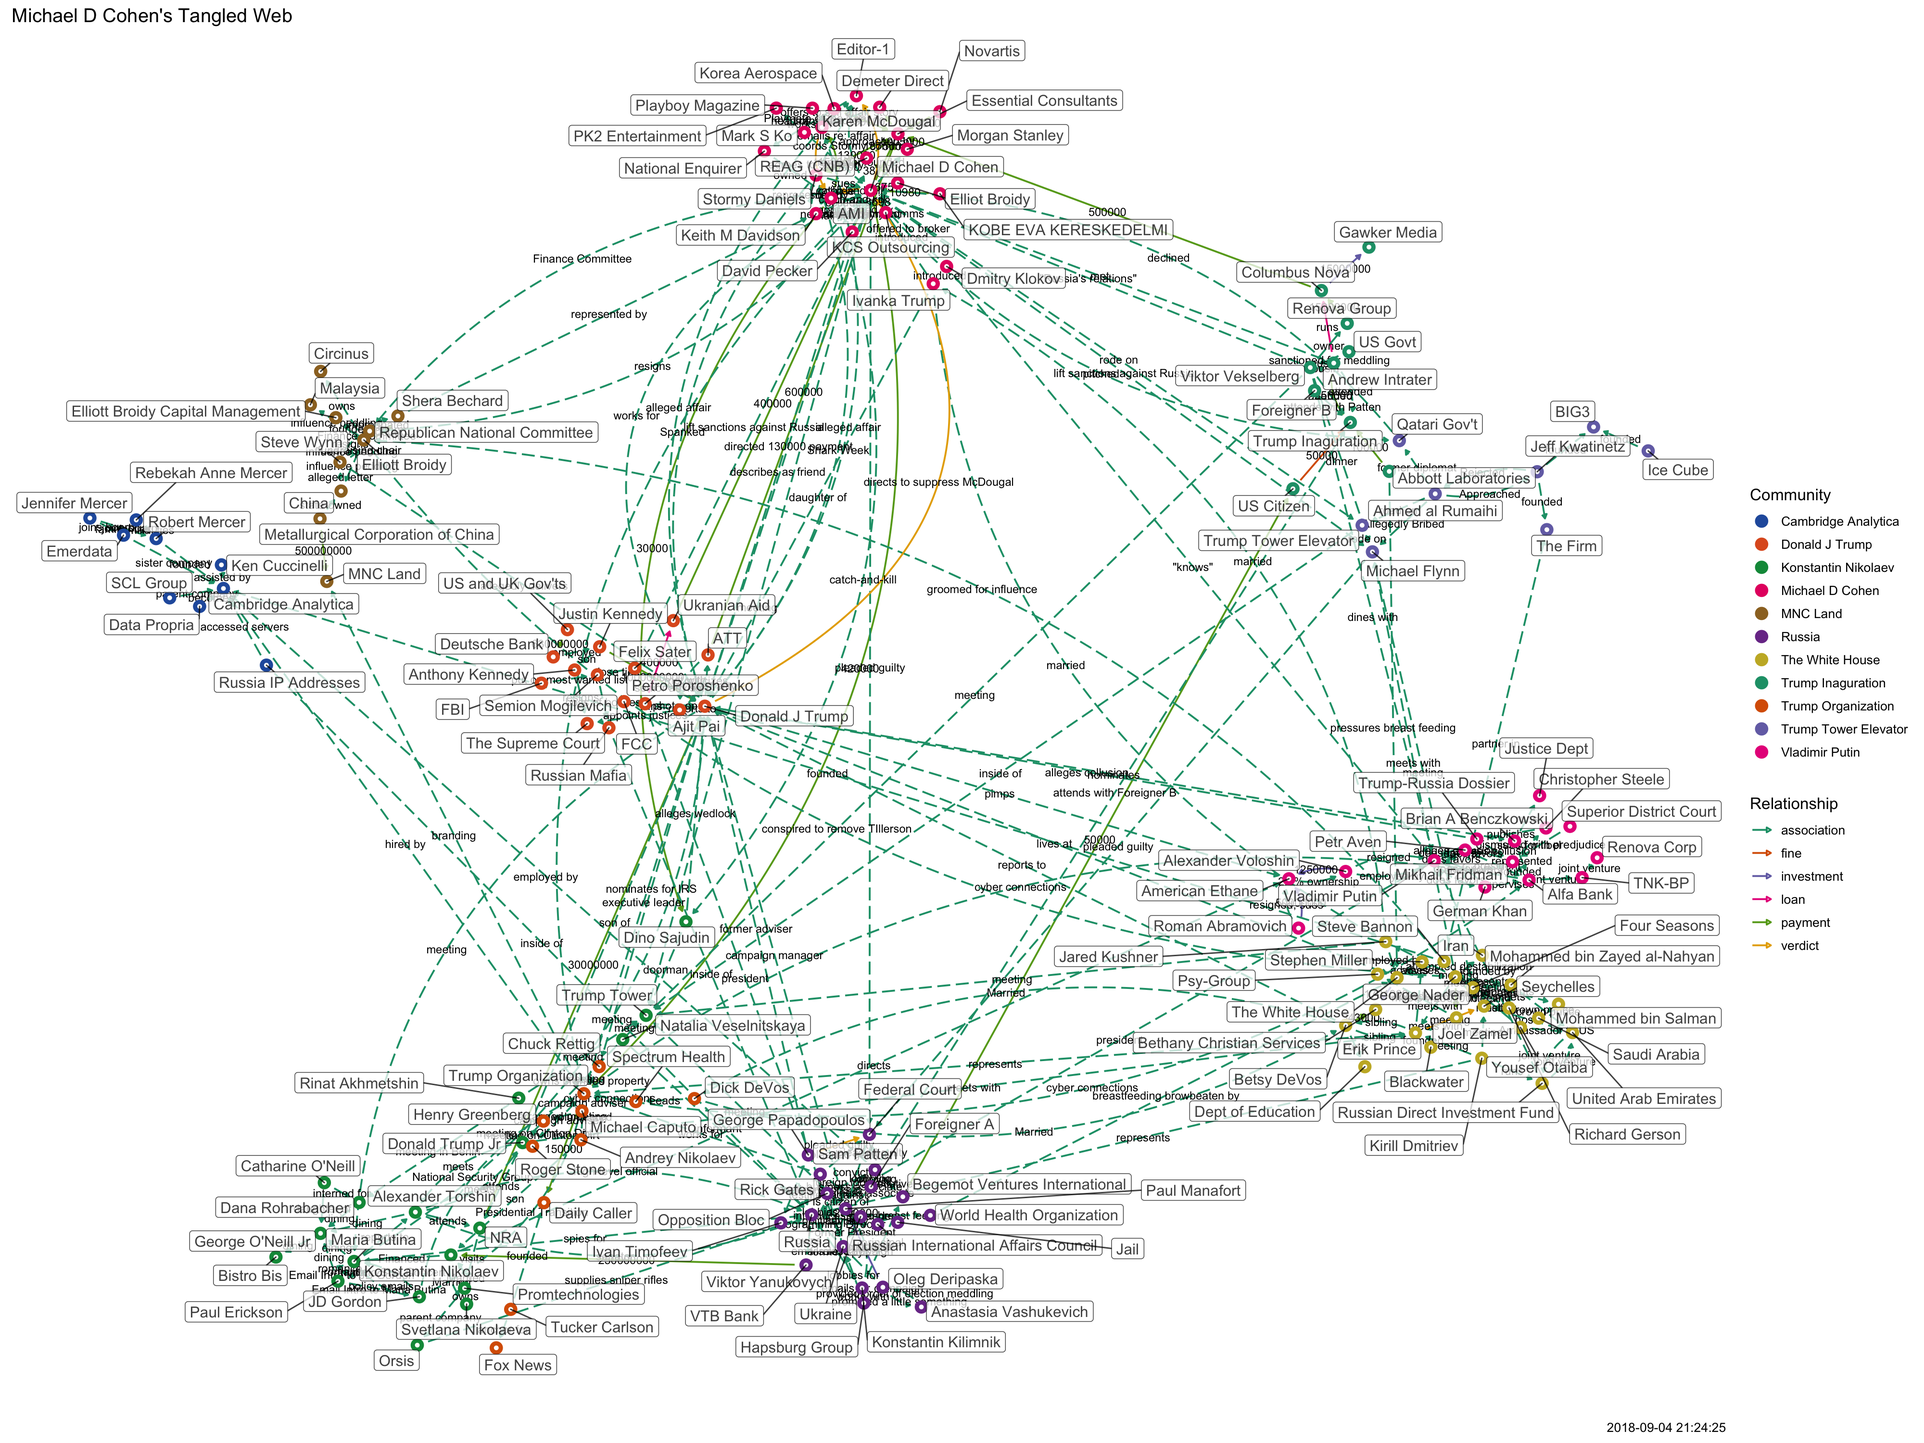
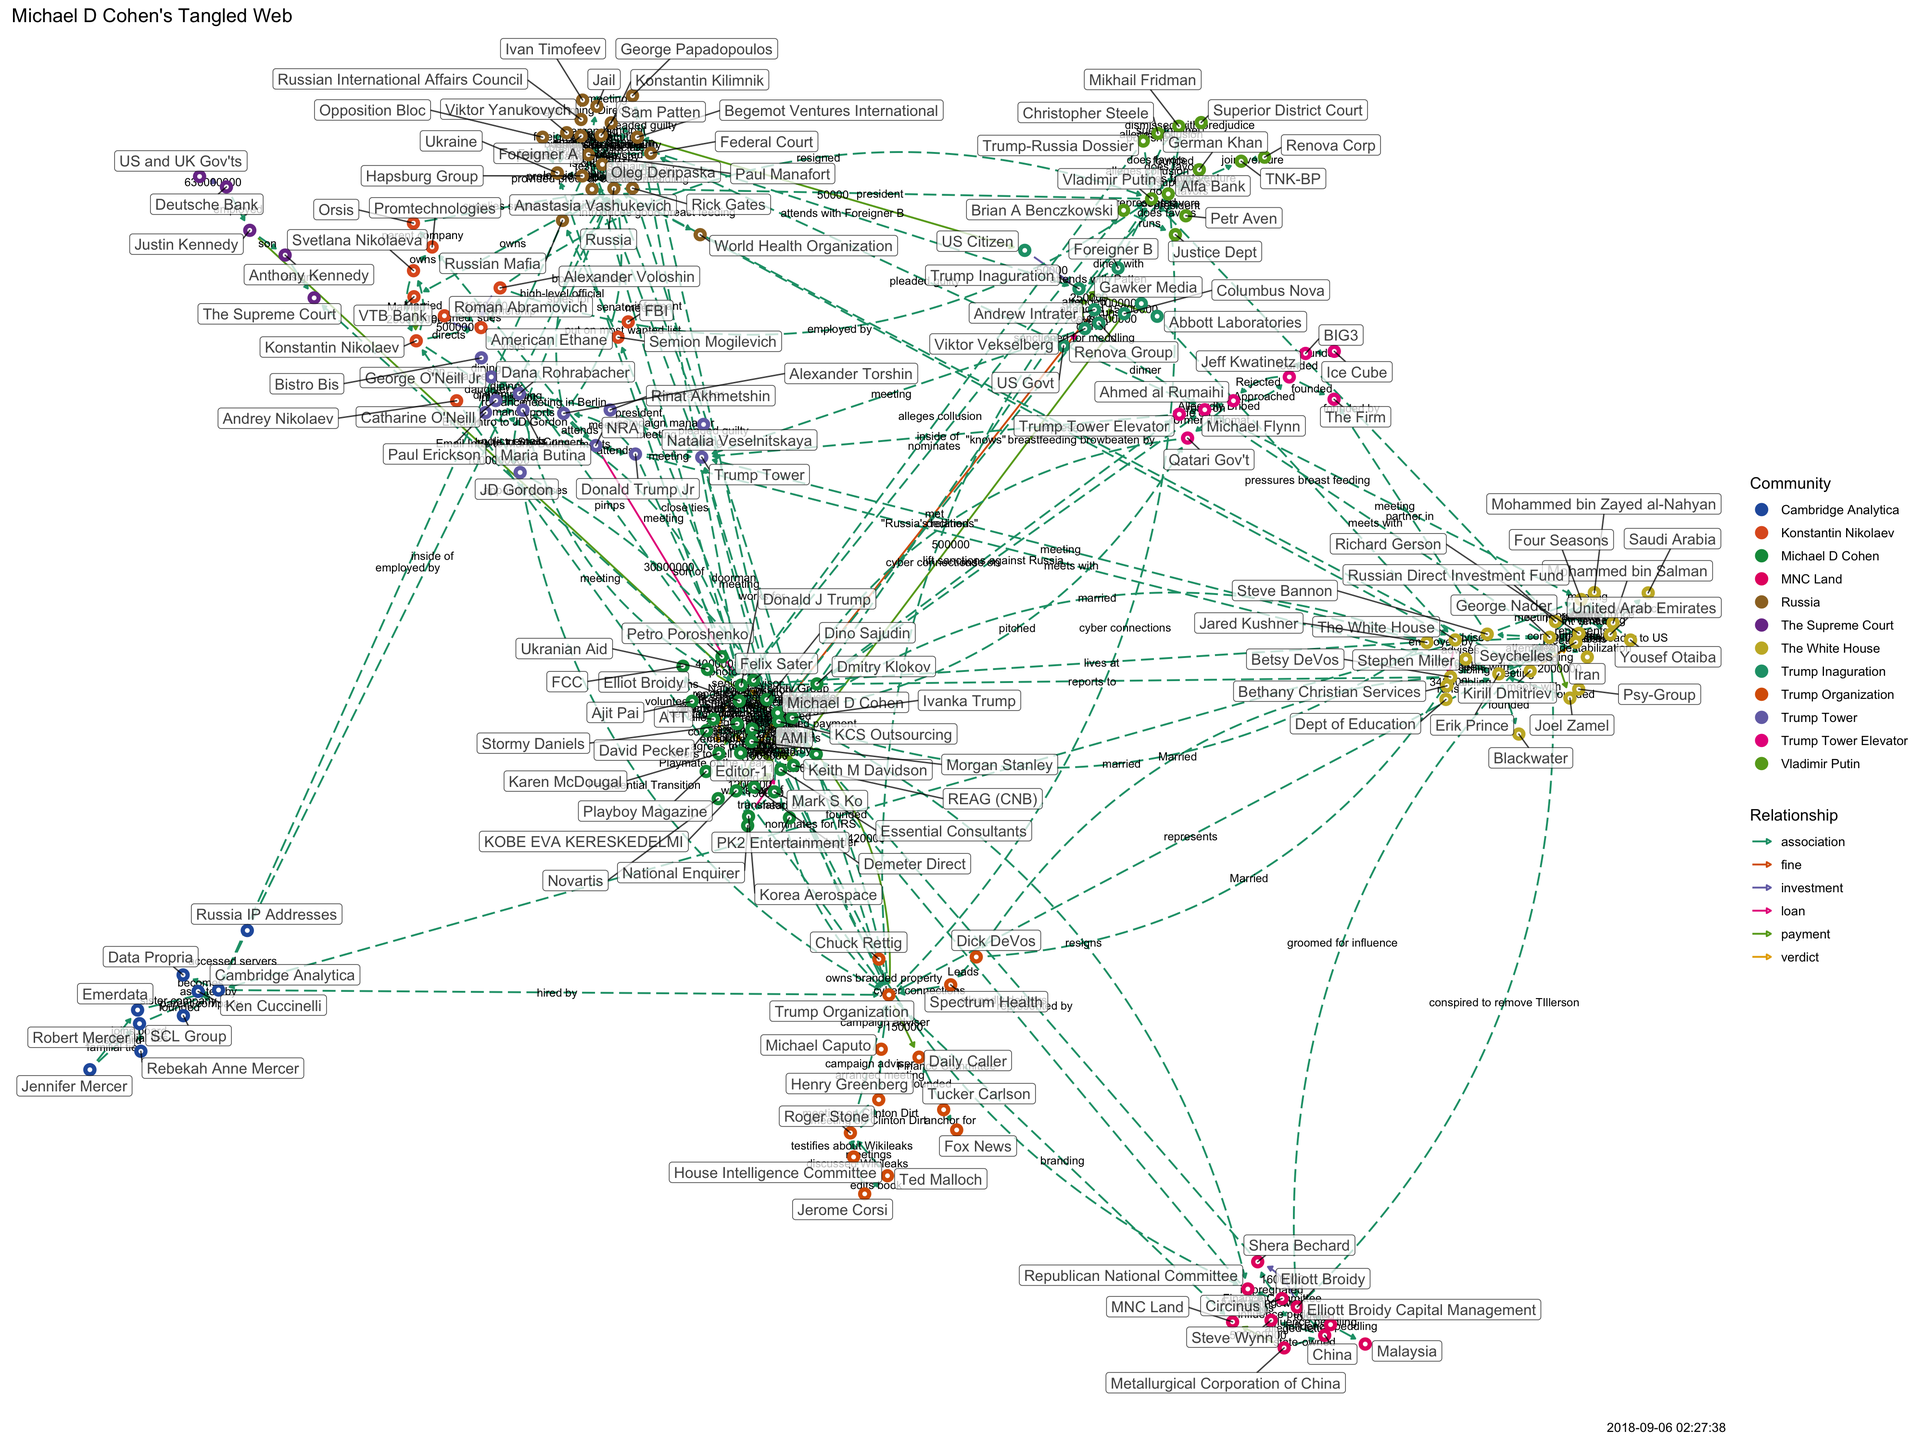
updated

Changed region(s): [[0.0312, 0.031, 1.0, 0.961], [0.0312, 0.62, 0.1875, 0.775], [0.8125, 0.279, 0.8438, 0.31]]

diff --git a/docs/tangled-d3.html b/docs/tangled-d3.html
@@ -1143,11 +1143,11 @@ return function(){for(var n=0,e=0;e<t;++e)n+=Math.random();return n}},um=functio
 </head>
 <body style="background-color: white;">
 <div id="htmlwidget_container">
-<div id="htmlwidget-c9d29ac1d0d970ba80f4" class="forceNetwork html-widget" style="width:960px;height:500px;">
+<div id="htmlwidget-beed44c90c4124314551" class="forceNetwork html-widget" style="width:960px;height:500px;">
 
 </div>
 </div>
-<script type="application/json" data-for="htmlwidget-c9d29ac1d0d970ba80f4">{"x":{"links":{"source":[0,1,2,2,3,4,5,6,7,7,8,9,10,10,10,11,12,13,14,15,16,17,18,19,20,21,22,22,23,24,25,26,26,27,28,29,30,31,17,3,3,32,3,32,32,3,33,17,34,32,9,9,9,17,35,35,34,17,17,36,36,36,36,35,17,37,38,38,39,40,39,39,41,38,38,42,42,42,4,41,9,11,11,11,43,43,44,44,17,45,46,46,11,47,48,49,11,11,50,51,49,52,48,11,11,47,49,6,6,6,26,16,21,21,17,32,32,53,54,54,54,54,11,51,37,41,55,55,44,44,56,56,34,34,17,57,58,59,58,60,61,60,58,60,60,47,43,62,63,63,30,20,60,58,35,64,17,65,12,66,35,0,67,68,35,1,1,69,24,70,35,70,71,72,73,61,61,61,74,26,75,76,76,77,35,77,77,78,77,79,78,47,47,78,78,78,77,80,79,81,81,62,82,9,83,57,84,84,84,79,79,84,85,85,86,86,87,88,88,19,85,89,68,90,91,92,90,92,9,9,9,93,93,93,94,95,20,32,35,96,97,97,97,97,37,17,35,98,99,100,17,17,101,98,2,17,35,98,35,98,101,2,102,102,34,99,101,103,103,104,105,106,103,17,71,72,73,107,74,71,108,109,109,109,110,111,60,111,112,111,113,113,111,111,58,111,114,111,41,115,75,116,117,118,119,118,119,120,120,120,121,122,123,124,124,6,125,126,126,127,126,49,126,49,128,127,129,11],"target":[130,69,102,98,130,10,29,131,10,132,22,83,133,134,34,48,35,17,17,10,135,8,10,35,60,27,10,34,7,69,131,136,17,17,66,130,60,85,10,7,17,23,32,3,130,130,32,35,57,61,137,138,139,134,25,34,35,26,137,133,140,17,15,26,53,53,53,39,38,141,142,141,142,45,37,4,35,143,42,25,11,9,41,43,25,44,43,35,45,17,136,144,49,49,49,145,51,50,146,129,52,25,147,37,148,35,6,49,149,35,135,94,35,150,151,151,17,151,128,51,11,152,152,152,152,152,152,129,17,56,17,61,57,17,57,17,59,150,60,68,68,35,68,153,151,151,151,151,151,68,150,68,58,20,64,26,137,154,65,12,154,25,25,67,69,61,61,1,69,74,70,155,61,61,61,71,72,73,26,74,26,75,68,35,77,68,78,68,79,77,47,78,19,19,68,82,82,82,82,82,80,80,156,83,57,17,77,26,26,77,84,77,77,86,85,89,68,85,26,89,69,87,31,91,92,91,26,26,94,157,93,137,35,137,93,20,95,37,4,60,60,26,96,60,96,96,17,99,100,2,99,101,2,2,17,2,17,35,98,158,35,102,35,151,99,17,17,35,105,105,106,68,17,37,74,74,74,159,159,108,109,35,61,71,71,60,111,112,150,113,111,68,75,96,5,5,130,130,75,75,160,75,75,117,117,115,115,35,96,121,122,68,26,123,6,124,75,49,127,61,68,26,128,128,129,129,127,128],"colour":["red","blue","red","red","red","red","red","red","red","blue","red","red","red","red","red","red","blue","red","red","red","blue","red","red","blue","blue","red","red","red","blue","blue","red","red","red","red","blue","red","red","blue","blue","blue","blue","blue","blue","blue","blue","blue","blue","blue","blue","blue","blue","blue","blue","blue","blue","blue","blue","blue","blue","blue","blue","blue","blue","blue","blue","blue","blue","blue","blue","blue","blue","blue","blue","blue","blue","blue","blue","blue","blue","blue","blue","blue","blue","blue","blue","blue","blue","blue","blue","blue","blue","blue","blue","blue","blue","blue","blue","blue","blue","blue","blue","blue","blue","blue","blue","blue","blue","blue","blue","blue","blue","blue","blue","blue","blue","blue","blue","blue","blue","blue","blue","blue","blue","blue","blue","blue","blue","blue","blue","blue","blue","blue","blue","blue","blue","blue","blue","blue","blue","blue","blue","blue","blue","blue","blue","blue","blue","blue","blue","blue","blue","blue","blue","blue","blue","blue","blue","blue","blue","blue","blue","blue","blue","blue","blue","blue","blue","blue","blue","blue","blue","blue","blue","blue","blue","blue","blue","blue","blue","blue","blue","blue","blue","blue","blue","blue","blue","blue","blue","blue","blue","blue","blue","blue","blue","blue","blue","blue","blue","blue","blue","blue","blue","blue","blue","blue","blue","blue","blue","blue","blue","blue","blue","blue","blue","blue","blue","blue","blue","blue","blue","blue","blue","blue","blue","blue","blue","blue","blue","blue","blue","blue","blue","blue","blue","blue","blue","blue","blue","blue","blue","blue","blue","blue","blue","blue","blue","blue","blue","blue","blue","blue","blue","blue","blue","blue","blue","blue","blue","blue","blue","blue","blue","blue","blue","blue","blue","blue","blue","blue","blue","blue","blue","blue","blue","blue","blue","blue","blue","blue","blue","blue","blue","blue","blue","blue","blue","blue","blue","blue","blue","blue","blue","blue","blue","blue","blue","blue","blue","blue","blue","blue","blue","blue","blue","blue","blue","blue","blue","blue","blue","blue","blue","blue","blue","blue","blue","blue","blue","blue","blue","blue","blue","blue","blue","blue","blue","blue"]},"nodes":{"name":["Abbott Laboratories","Alexander Voloshin","AMI","Andrew Intrater","ATT","Begemot Ventures International","Betsy DeVos","Columbus Nova","Elliot Broidy","Elliott Broidy","Essential Consultants","George Nader","Justin Kennedy","KCS Outsourcing","KOBE EVA KERESKEDELMI","Korea Aerospace","Metallurgical Corporation of China","Michael D Cohen","Novartis","NRA","Oleg Deripaska","Petro Poroshenko","REAG (CNB)","Renova Group","Roman Abramovich","The White House","Trump Organization","Ukranian Aid","US and UK Gov'ts","US Citizen","Viktor Yanukovych","VTB Bank","Viktor Vekselberg","US Govt","Stormy Daniels","Donald J Trump","Mark S Ko","Michael Flynn","Ahmed al Rumaihi","Jeff Kwatinetz","Ice Cube","Steve Bannon","Ajit Pai","Jared Kushner","Ivanka Trump","Qatari Gov't","Tucker Carlson","Donald Trump Jr","Joel Zamel","Erik Prince","Mohammed bin Salman","Mohammed bin Zayed al-Nahyan","Stephen Miller","Trump Tower Elevator","Richard Gerson","Yousef Otaiba","Dmitry Klokov","Keith M Davidson","Konstantin Kilimnik","Hapsburg Group","Paul Manafort","Vladimir Putin","Rinat Akhmetshin","Natalia Veselnitskaya","Chuck Rettig","Anthony Kennedy","Deutsche Bank","World Health Organization","Russia","American Ethane","Brian A Benczkowski","Mikhail Fridman","German Khan","Petr Aven","Alfa Bank","Cambridge Analytica","Russia IP Addresses","Maria Butina","Alexander Torshin","Paul Erickson","Dana Rohrabacher","Catharine O'Neill","George O'Neill Jr","Shera Bechard","JD Gordon","Konstantin Nikolaev","Svetlana Nikolaeva","Orsis","Andrey Nikolaev","Promtechnologies","Michael Caputo","Henry Greenberg","Roger Stone","Steve Wynn","China","Anastasia Vashukevich","Federal Court","Rick Gates","Karen McDougal","Editor-1","National Enquirer","David Pecker","Dino Sajudin","Felix Sater","FBI","Semion Mogilevich","Russian Mafia","Renova Corp","Christopher Steele","Trump-Russia Dossier","Superior District Court","Sam Patten","Opposition Bloc","Foreigner A","Foreigner B","Robert Mercer","SCL Group","Emerdata","Jennifer Mercer","Rebekah Anne Mercer","George Papadopoulos","Ivan Timofeev","Russian International Affairs Council","Spectrum Health","Dick DeVos","Ken Cuccinelli","Kirill Dmitriev","Russian Direct Investment Fund","Seychelles","United Arab Emirates","Trump Inaguration","Bethany Christian Services","Gawker Media","Demeter Direct","Morgan Stanley","MNC Land","Daily Caller","Republican National Committee","Elliott Broidy Capital Management","Circinus","PK2 Entertainment","BIG3","The Firm","FCC","Fox News","Blackwater","Saudi Arabia","Psy-Group","Iran","Dept of Education","Ukraine","Trump Tower","Four Seasons","Jail","The Supreme Court","Justice Dept","Bistro Bis","Malaysia","Playboy Magazine","TNK-BP","Data Propria"],"group":["9","5","2","9","6","3","1","9","2","8","2","1","6","2","2","2","8","2","2","4","3","6","2","9","5","1","7","6","6","9","3","3","9","9","2","6","2","11","11","11","11","1","6","1","2","11","7","4","1","1","1","1","1","11","1","1","2","2","3","3","3","5","4","4","7","6","6","3","3","5","5","5","5","5","5","10","10","4","4","4","4","4","4","8","4","4","4","4","7","4","7","7","7","8","8","3","3","3","2","2","2","2","4","6","6","6","6","5","5","5","5","3","3","3","9","10","10","10","10","10","3","3","3","7","7","10","1","1","1","1","9","1","9","2","2","8","7","8","8","8","2","11","11","6","7","1","1","1","1","1","3","4","1","3","6","5","4","8","2","5","10"]},"options":{"NodeID":"name","Group":"group","colourScale":"d3.scaleOrdinal(d3.schemeCategory20);","fontSize":20,"fontFamily":"serif","clickTextSize":50,"linkDistance":50,"linkWidth":"function(d) { return Math.sqrt(d.value); }","charge":-100,"opacity":1,"zoom":true,"legend":false,"arrows":false,"nodesize":false,"radiusCalculation":" Math.sqrt(d.nodesize)+6","bounded":false,"opacityNoHover":1,"clickAction":null}},"evals":[],"jsHooks":[]}</script>
-<script type="application/htmlwidget-sizing" data-for="htmlwidget-c9d29ac1d0d970ba80f4">{"viewer":{"width":450,"height":350,"padding":10,"fill":true},"browser":{"width":960,"height":500,"padding":10,"fill":true}}</script>
+<script type="application/json" data-for="htmlwidget-beed44c90c4124314551">{"x":{"links":{"source":[0,1,2,2,3,4,5,6,7,7,8,9,10,10,10,11,12,13,14,15,16,17,18,19,20,21,22,22,23,24,25,26,26,27,28,29,30,31,17,3,3,32,3,32,32,3,33,17,34,32,9,9,9,17,35,35,34,17,17,36,36,36,36,35,17,37,38,38,39,40,39,39,41,38,38,42,42,42,4,41,9,11,11,11,43,43,44,44,17,45,46,46,11,47,48,49,11,11,50,51,49,52,48,11,11,47,49,6,6,6,26,16,21,21,17,32,32,53,54,54,54,54,11,51,37,41,55,55,44,44,56,56,34,34,17,57,58,59,58,60,61,60,58,60,60,47,43,62,63,63,30,20,60,58,35,64,17,65,12,66,35,0,67,68,35,1,1,69,24,70,35,70,71,72,73,61,61,61,74,26,75,76,76,77,35,77,77,78,77,79,78,47,47,78,78,78,77,80,79,81,81,62,82,9,83,57,84,84,84,79,79,84,85,85,86,86,87,88,88,19,85,89,68,90,91,92,90,92,9,9,9,93,93,93,94,95,20,32,35,96,97,97,97,97,37,17,35,98,99,100,17,17,101,98,2,17,35,98,35,98,101,2,102,102,34,99,101,103,103,104,105,106,103,17,71,72,73,107,74,71,108,109,109,109,110,111,60,111,112,111,113,113,111,111,58,111,114,111,41,115,75,116,117,118,119,118,119,120,120,120,121,122,123,124,124,6,125,126,126,127,126,49,126,49,128,127,129,11,130,92,130,131],"target":[132,69,102,98,132,10,29,133,10,134,22,83,135,136,34,48,35,17,17,10,137,8,10,35,60,27,10,34,7,69,133,138,17,17,66,132,60,85,10,7,17,23,32,3,132,132,32,35,57,61,139,140,141,136,25,34,35,26,139,135,142,17,15,26,53,53,53,39,38,143,144,143,144,45,37,4,35,145,42,25,11,9,41,43,25,44,43,35,45,17,138,146,49,49,49,147,51,50,148,129,52,25,149,37,150,35,6,49,151,35,137,94,35,152,153,153,17,153,128,51,11,154,154,154,154,154,154,129,17,56,17,61,57,17,57,17,59,152,60,68,68,35,68,155,153,153,153,153,153,68,152,68,58,20,64,26,139,156,65,12,156,25,25,67,69,61,61,1,69,74,70,157,61,61,61,71,72,73,26,74,26,75,68,35,77,68,78,68,79,77,47,78,19,19,68,82,82,82,82,82,80,80,158,83,57,17,77,26,26,77,84,77,77,86,85,89,68,85,26,89,69,87,31,91,92,91,26,26,94,159,93,139,35,139,93,20,95,37,4,60,60,26,96,60,96,96,17,99,100,2,99,101,2,2,17,2,17,35,98,160,35,102,35,153,99,17,17,35,105,105,106,68,17,37,74,74,74,161,161,108,109,35,61,71,71,60,111,112,152,113,111,68,75,96,5,5,132,132,75,75,162,75,75,117,117,115,115,35,96,121,122,68,26,123,6,124,75,49,127,61,68,26,128,128,129,129,127,128,92,163,131,92],"colour":["red","blue","red","red","red","red","red","red","red","blue","red","red","red","red","red","red","blue","red","red","red","blue","red","red","blue","blue","red","red","red","blue","blue","red","red","red","red","blue","red","red","blue","blue","blue","blue","blue","blue","blue","blue","blue","blue","blue","blue","blue","blue","blue","blue","blue","blue","blue","blue","blue","blue","blue","blue","blue","blue","blue","blue","blue","blue","blue","blue","blue","blue","blue","blue","blue","blue","blue","blue","blue","blue","blue","blue","blue","blue","blue","blue","blue","blue","blue","blue","blue","blue","blue","blue","blue","blue","blue","blue","blue","blue","blue","blue","blue","blue","blue","blue","blue","blue","blue","blue","blue","blue","blue","blue","blue","blue","blue","blue","blue","blue","blue","blue","blue","blue","blue","blue","blue","blue","blue","blue","blue","blue","blue","blue","blue","blue","blue","blue","blue","blue","blue","blue","blue","blue","blue","blue","blue","blue","blue","blue","blue","blue","blue","blue","blue","blue","blue","blue","blue","blue","blue","blue","blue","blue","blue","blue","blue","blue","blue","blue","blue","blue","blue","blue","blue","blue","blue","blue","blue","blue","blue","blue","blue","blue","blue","blue","blue","blue","blue","blue","blue","blue","blue","blue","blue","blue","blue","blue","blue","blue","blue","blue","blue","blue","blue","blue","blue","blue","blue","blue","blue","blue","blue","blue","blue","blue","blue","blue","blue","blue","blue","blue","blue","blue","blue","blue","blue","blue","blue","blue","blue","blue","blue","blue","blue","blue","blue","blue","blue","blue","blue","blue","blue","blue","blue","blue","blue","blue","blue","blue","blue","blue","blue","blue","blue","blue","blue","blue","blue","blue","blue","blue","blue","blue","blue","blue","blue","blue","blue","blue","blue","blue","blue","blue","blue","blue","blue","blue","blue","blue","blue","blue","blue","blue","blue","blue","blue","blue","blue","blue","blue","blue","blue","blue","blue","blue","blue","blue","blue","blue","blue","blue","blue","blue","blue","blue","blue","blue","blue","blue","blue","blue","blue","blue","blue","blue","blue","blue","blue","blue","blue","blue","blue","blue","blue","blue","blue","blue","blue","blue","blue","blue","blue"]},"nodes":{"name":["Abbott Laboratories","Alexander Voloshin","AMI","Andrew Intrater","ATT","Begemot Ventures International","Betsy DeVos","Columbus Nova","Elliot Broidy","Elliott Broidy","Essential Consultants","George Nader","Justin Kennedy","KCS Outsourcing","KOBE EVA KERESKEDELMI","Korea Aerospace","Metallurgical Corporation of China","Michael D Cohen","Novartis","NRA","Oleg Deripaska","Petro Poroshenko","REAG (CNB)","Renova Group","Roman Abramovich","The White House","Trump Organization","Ukranian Aid","US and UK Gov'ts","US Citizen","Viktor Yanukovych","VTB Bank","Viktor Vekselberg","US Govt","Stormy Daniels","Donald J Trump","Mark S Ko","Michael Flynn","Ahmed al Rumaihi","Jeff Kwatinetz","Ice Cube","Steve Bannon","Ajit Pai","Jared Kushner","Ivanka Trump","Qatari Gov't","Tucker Carlson","Donald Trump Jr","Joel Zamel","Erik Prince","Mohammed bin Salman","Mohammed bin Zayed al-Nahyan","Stephen Miller","Trump Tower Elevator","Richard Gerson","Yousef Otaiba","Dmitry Klokov","Keith M Davidson","Konstantin Kilimnik","Hapsburg Group","Paul Manafort","Vladimir Putin","Rinat Akhmetshin","Natalia Veselnitskaya","Chuck Rettig","Anthony Kennedy","Deutsche Bank","World Health Organization","Russia","American Ethane","Brian A Benczkowski","Mikhail Fridman","German Khan","Petr Aven","Alfa Bank","Cambridge Analytica","Russia IP Addresses","Maria Butina","Alexander Torshin","Paul Erickson","Dana Rohrabacher","Catharine O'Neill","George O'Neill Jr","Shera Bechard","JD Gordon","Konstantin Nikolaev","Svetlana Nikolaeva","Orsis","Andrey Nikolaev","Promtechnologies","Michael Caputo","Henry Greenberg","Roger Stone","Steve Wynn","China","Anastasia Vashukevich","Federal Court","Rick Gates","Karen McDougal","Editor-1","National Enquirer","David Pecker","Dino Sajudin","Felix Sater","FBI","Semion Mogilevich","Russian Mafia","Renova Corp","Christopher Steele","Trump-Russia Dossier","Superior District Court","Sam Patten","Opposition Bloc","Foreigner A","Foreigner B","Robert Mercer","SCL Group","Emerdata","Jennifer Mercer","Rebekah Anne Mercer","George Papadopoulos","Ivan Timofeev","Russian International Affairs Council","Spectrum Health","Dick DeVos","Ken Cuccinelli","Kirill Dmitriev","Russian Direct Investment Fund","Seychelles","United Arab Emirates","Jerome Corsi","Ted Malloch","Trump Inaguration","Bethany Christian Services","Gawker Media","Demeter Direct","Morgan Stanley","MNC Land","Daily Caller","Republican National Committee","Elliott Broidy Capital Management","Circinus","PK2 Entertainment","BIG3","The Firm","FCC","Fox News","Blackwater","Saudi Arabia","Psy-Group","Iran","Dept of Education","Ukraine","Trump Tower","Four Seasons","Jail","The Supreme Court","Justice Dept","Bistro Bis","Malaysia","Playboy Magazine","TNK-BP","Data Propria","House Intelligence Committee"],"group":["8","7","1","8","1","3","2","8","1","9","1","2","12","1","1","1","9","1","1","4","3","1","1","8","7","2","5","1","12","8","3","7","8","8","1","1","1","11","11","11","11","2","1","2","1","11","5","4","2","2","2","2","2","11","2","2","1","1","3","3","3","6","4","4","5","12","12","3","3","7","6","6","6","6","6","10","10","4","4","4","4","4","4","9","4","7","7","7","7","7","5","5","5","9","9","3","3","3","1","1","1","1","1","1","7","7","3","6","6","6","6","3","3","3","8","10","10","10","10","10","3","3","3","5","5","10","2","2","2","2","5","5","8","2","8","1","1","9","5","9","9","9","1","11","11","1","5","2","2","2","2","2","3","4","2","3","12","6","4","9","1","6","10","5"]},"options":{"NodeID":"name","Group":"group","colourScale":"d3.scaleOrdinal(d3.schemeCategory20);","fontSize":20,"fontFamily":"serif","clickTextSize":50,"linkDistance":50,"linkWidth":"function(d) { return Math.sqrt(d.value); }","charge":-100,"opacity":1,"zoom":true,"legend":false,"arrows":false,"nodesize":false,"radiusCalculation":" Math.sqrt(d.nodesize)+6","bounded":false,"opacityNoHover":1,"clickAction":null}},"evals":[],"jsHooks":[]}</script>
+<script type="application/htmlwidget-sizing" data-for="htmlwidget-beed44c90c4124314551">{"viewer":{"width":450,"height":350,"padding":10,"fill":true},"browser":{"width":960,"height":500,"padding":10,"fill":true}}</script>
 </body>
 </html>
